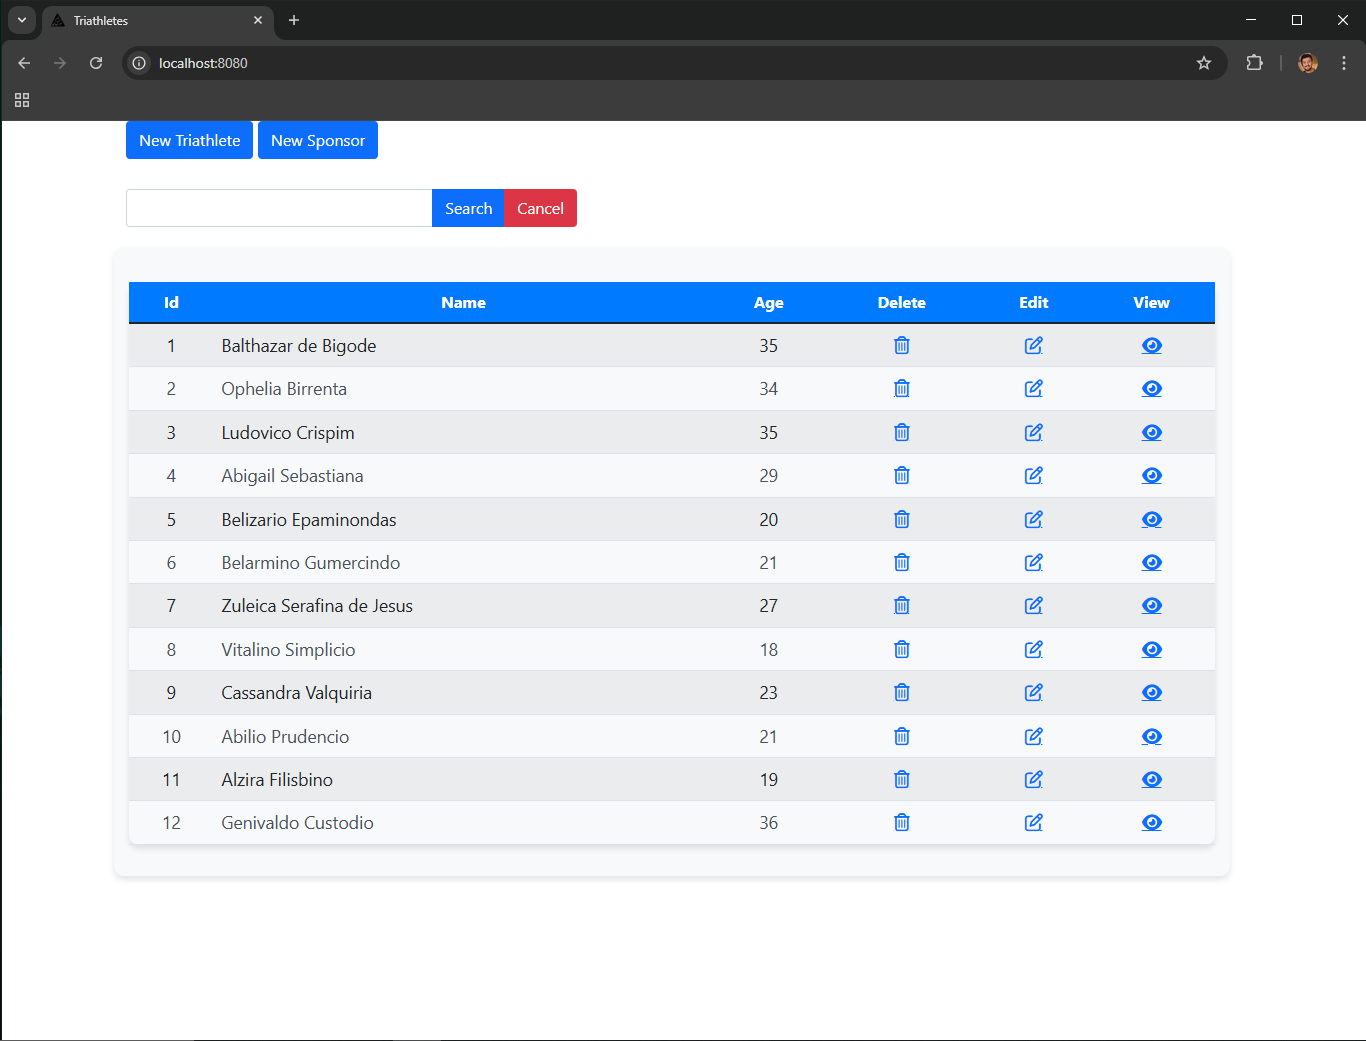
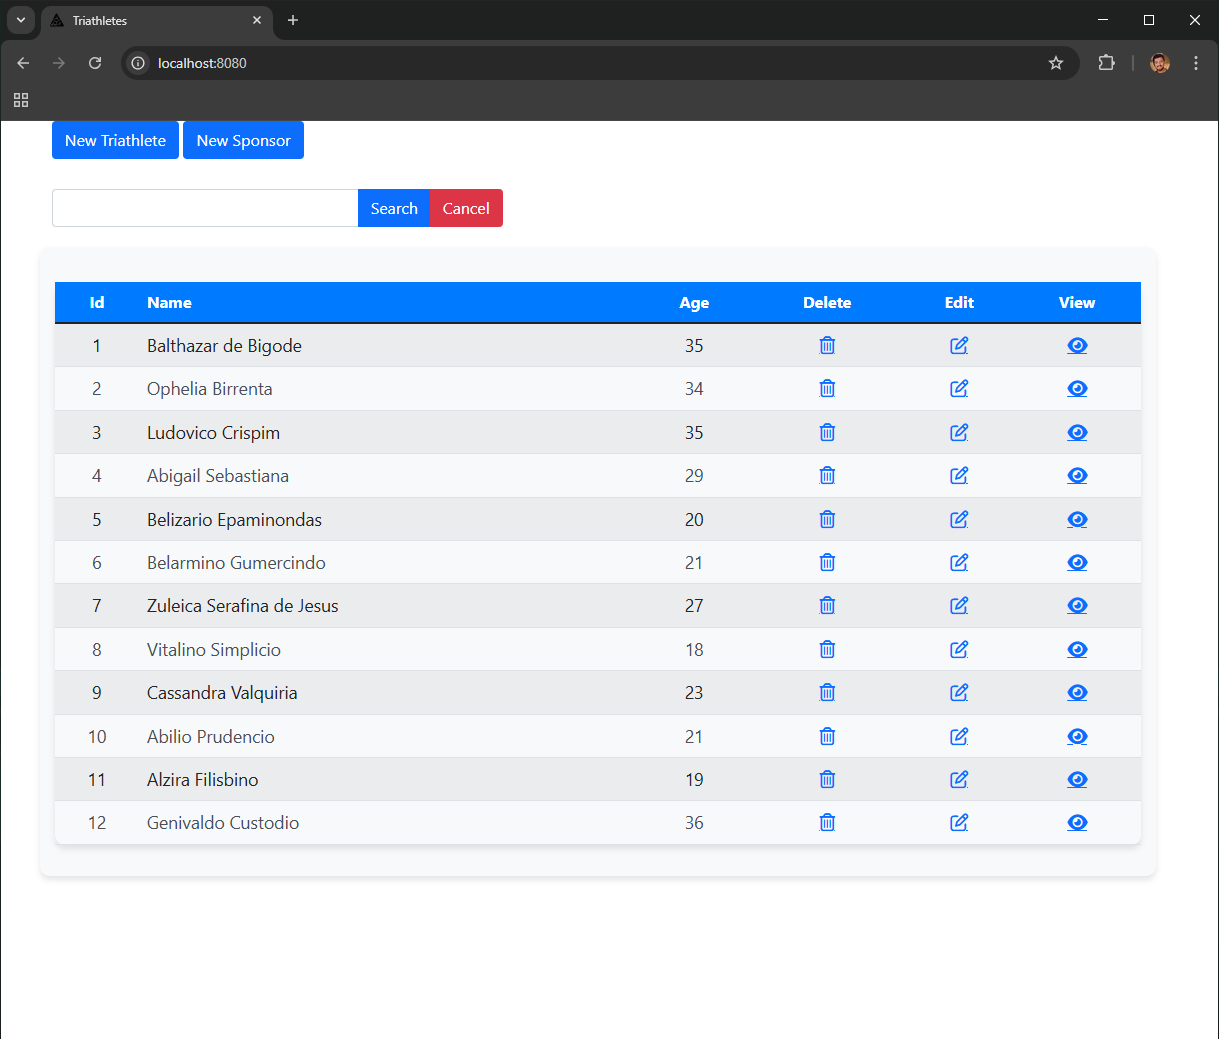
refactor: align Name header left in Triathlete list view

diff --git a/src/main/resources/templates/list-triathletes.html b/src/main/resources/templates/list-triathletes.html
@@ -40,7 +40,11 @@
         .table td.name-column {
           text-align: left;
         }
-        /* Ícones de ações */
+
+        .table th.name-column {
+          text-align: left !important;
+        }
+
         .action-icons a {
           font-size: 1.2rem;
           color: #495057;
@@ -87,7 +91,7 @@
             <thead>
             <tr>
                 <th>Id</th>
-                <th>Name</th>
+                <th class="name-column">Name</th>
                 <th>Age</th>
                 <th>Delete</th>
                 <th>Edit</th>

diff --git a/src/main/java/com/souza/charles/triathlete_sponsorship_web/controllers/SponsorController.java b/src/main/java/com/souza/charles/triathlete_sponsorship_web/controllers/SponsorController.java
@@ -1,6 +1,6 @@
 package com.souza.charles.triathlete_sponsorship_web.controllers;
 
-import com.souza.charles.triathlete_sponsorship_web.exceptions.SponsorAlreadyExistsException; // Importe a exceção correta
+import com.souza.charles.triathlete_sponsorship_web.exceptions.SponsorAlreadyExistsException;
 import com.souza.charles.triathlete_sponsorship_web.models.Sponsor;
 import com.souza.charles.triathlete_sponsorship_web.services.SponsorService;
 import com.souza.charles.triathlete_sponsorship_web.utils.TriathleteSponsorshipMessages;

diff --git a/src/main/java/com/souza/charles/triathlete_sponsorship_web/services/TriathleteService.java b/src/main/java/com/souza/charles/triathlete_sponsorship_web/services/TriathleteService.java
@@ -39,7 +39,6 @@ public class TriathleteService {
         triathleteRepository.delete(triathlete);
     }
 
-
     public Triathlete editTriathlete(Triathlete triathlete) {
         return triathleteRepository.save(triathlete);
     }

diff --git a/README.md b/README.md
@@ -6,8 +6,7 @@
 # 🏊🚴🏃 Triathlete Sponsorship Management Web
 
 ***
-▶ Project developed based on tutorials by **Gilberto
-** - [4CatsDev](https://www.youtube.com/playlist?list=PLj8jbyWxdQ-n-WuVOeqqVTXZEhml3H_bH).
+▶ Project developed based on tutorials by **Gilberto** - [4CatsDev](https://www.youtube.com/playlist?list=PLj8jbyWxdQ-n-WuVOeqqVTXZEhml3H_bH).
 ***
 
 ## System Overview:
